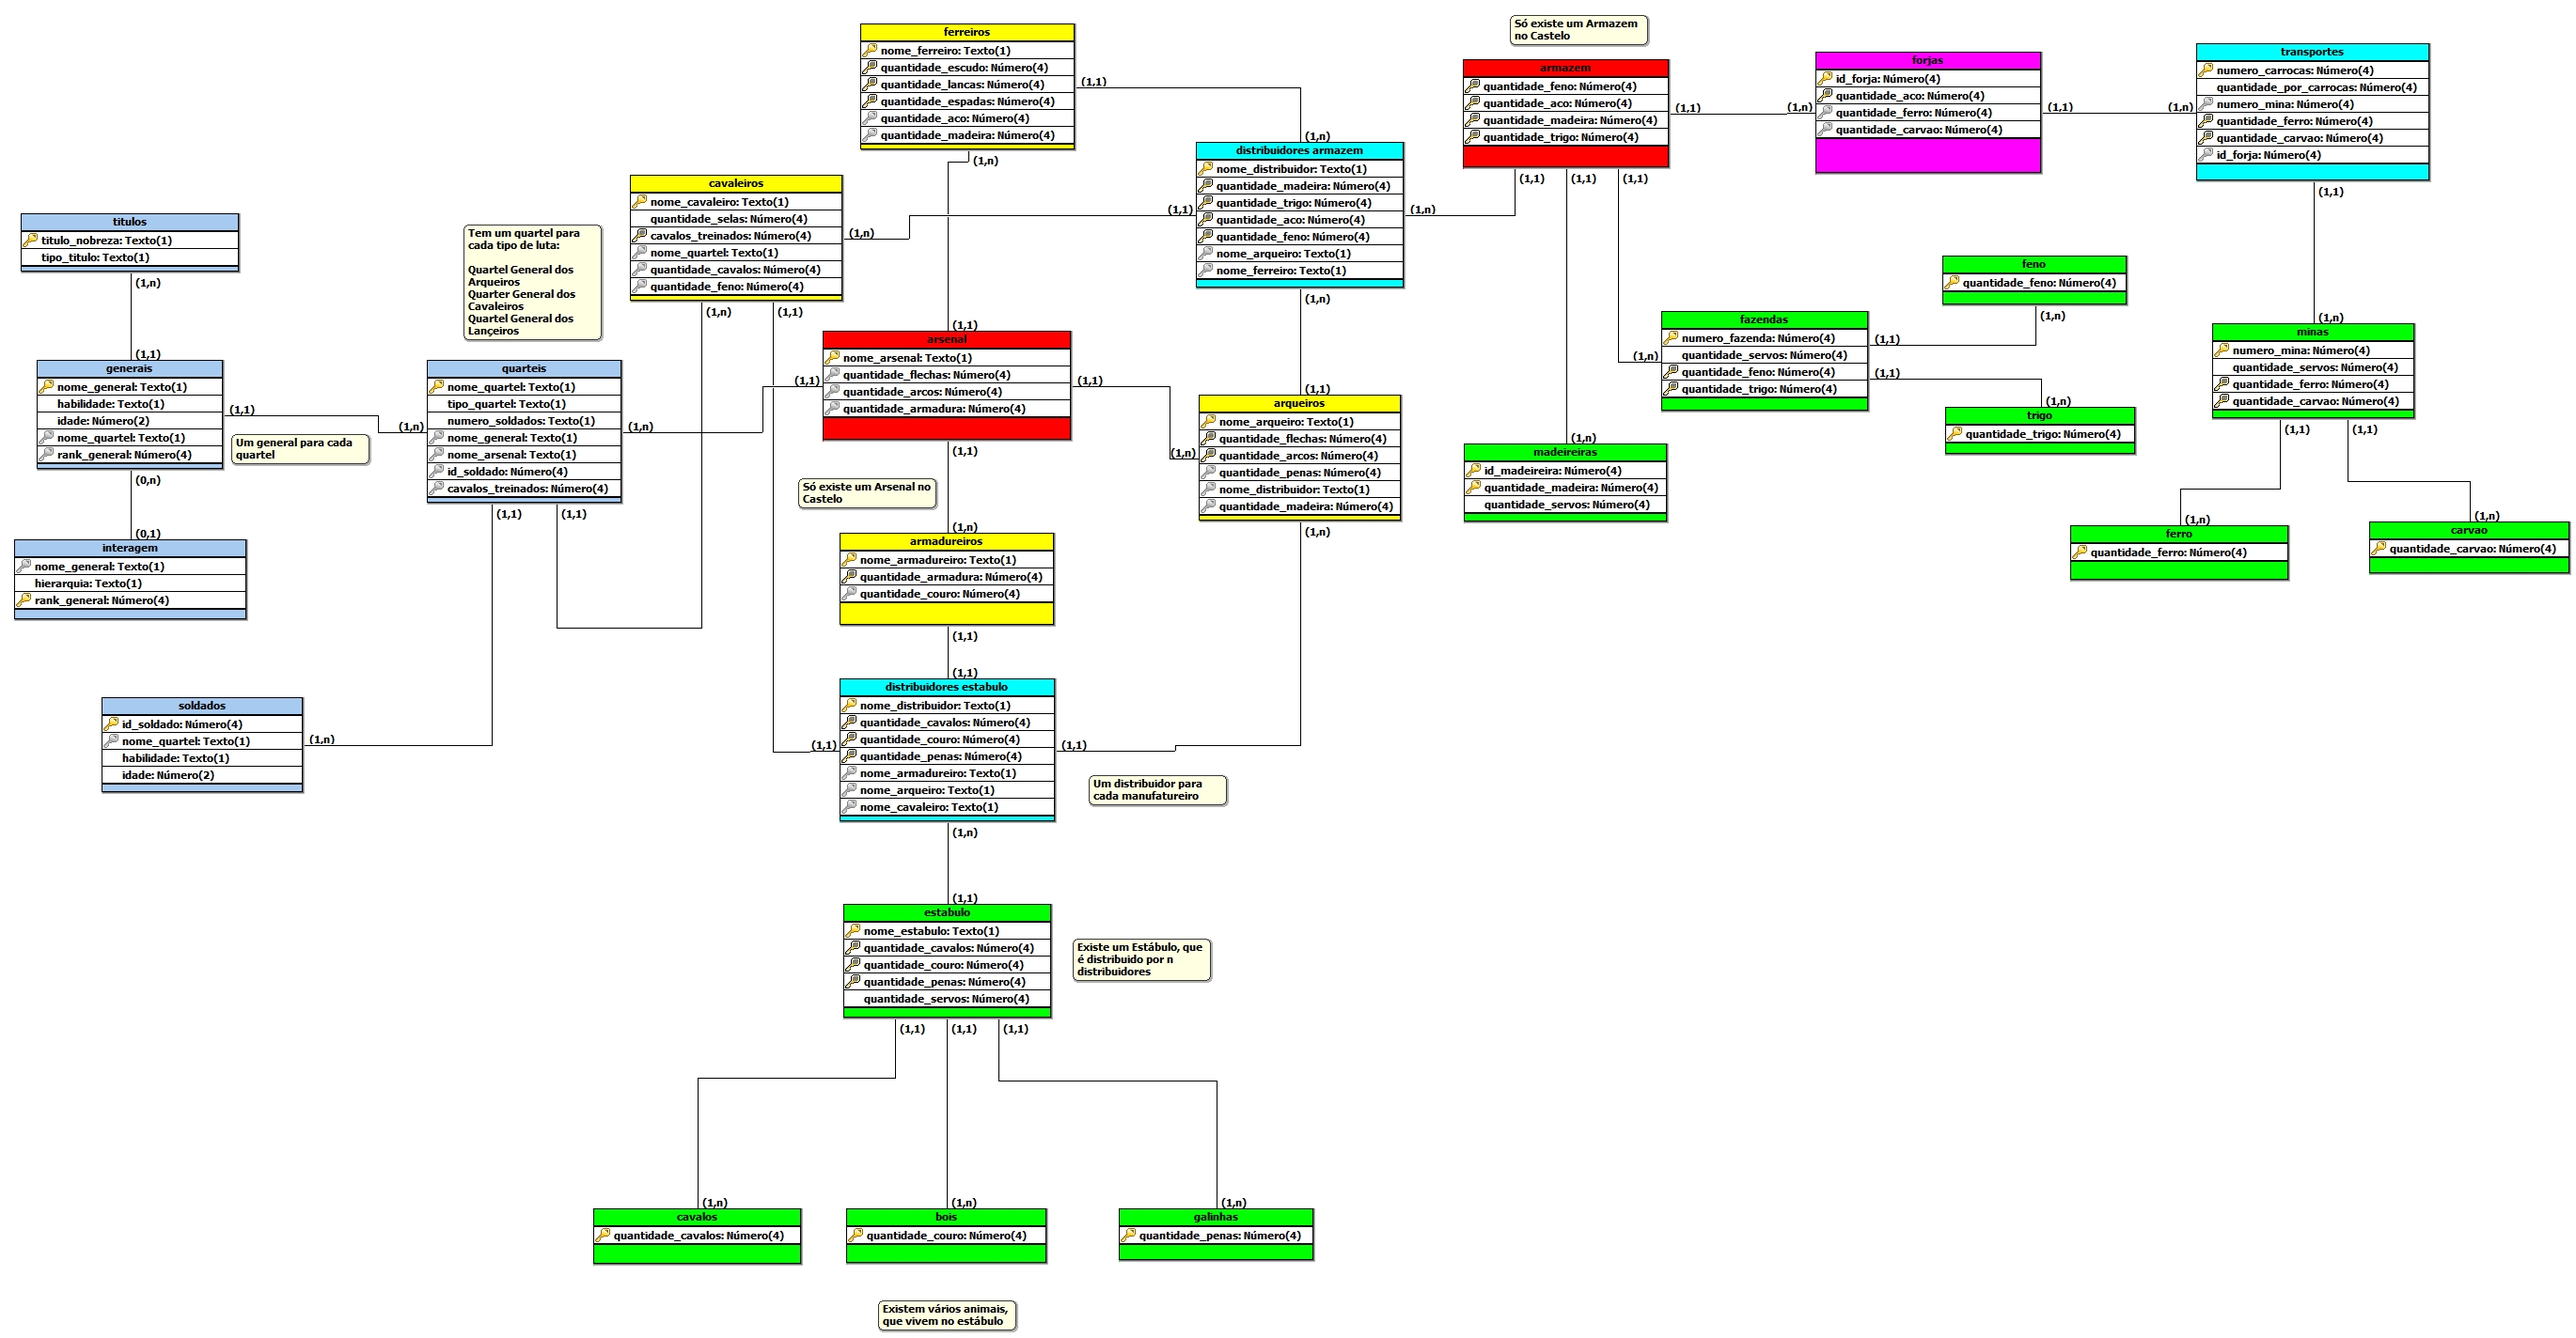
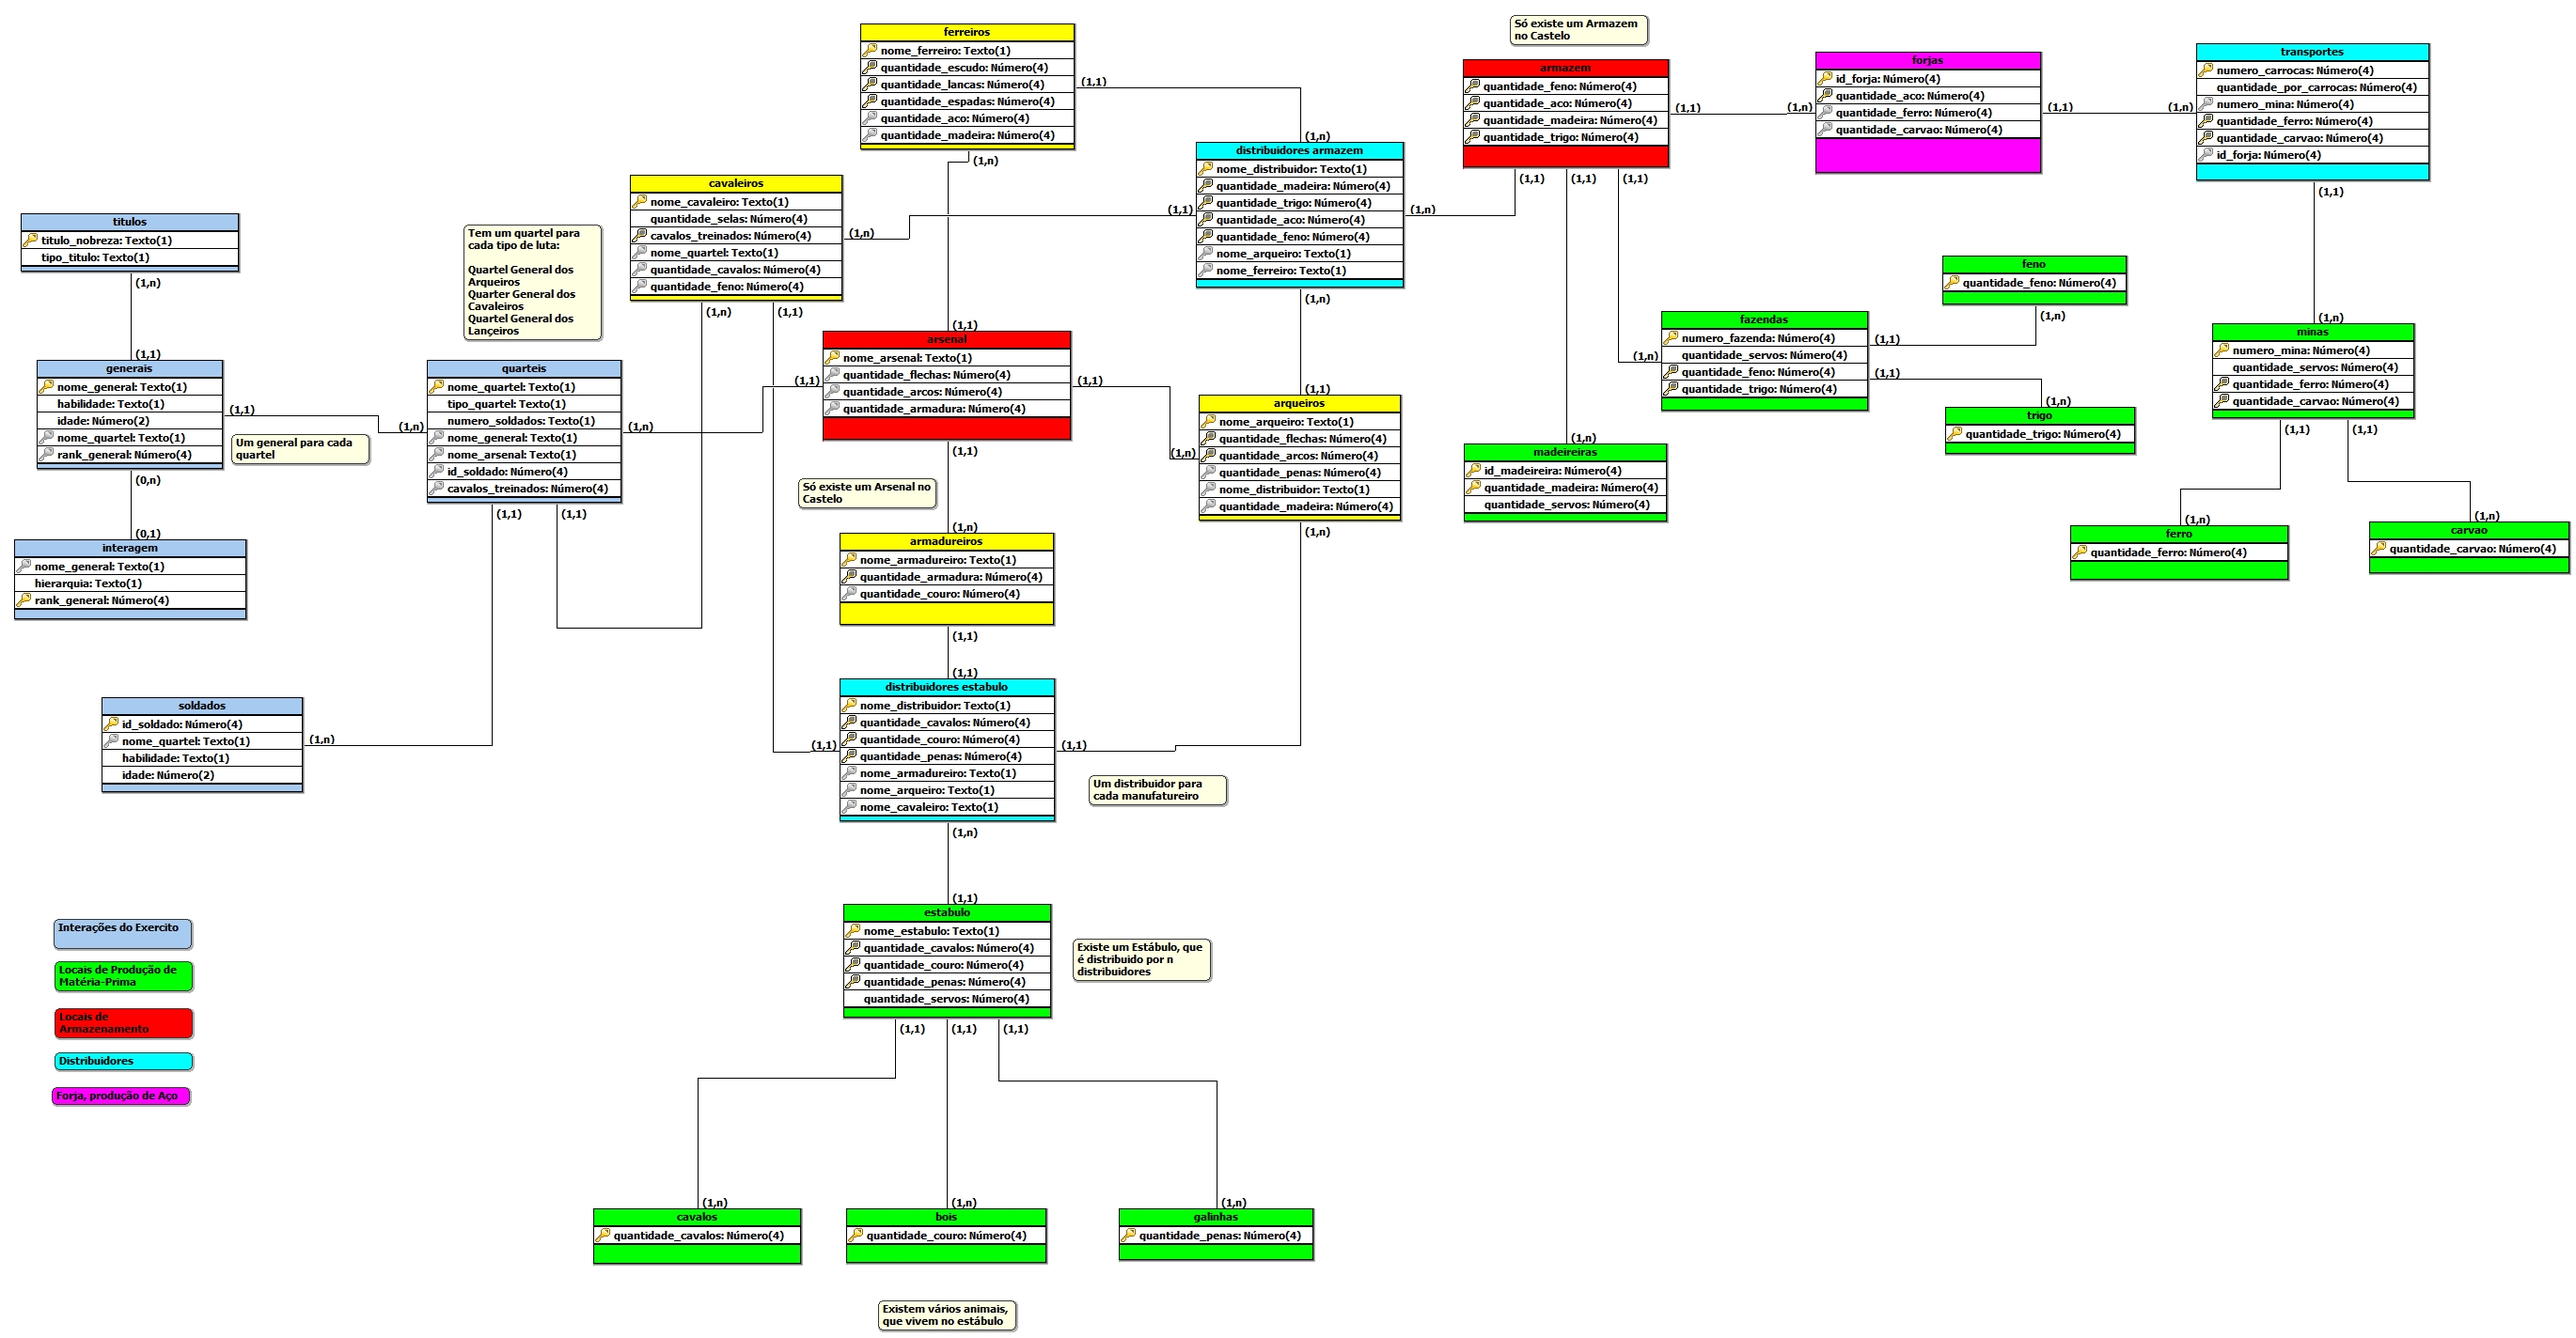
update logic model pic

Changed region(s): [[0.0, 0.6798, 0.0931, 0.8343]]

diff --git a/README.md b/README.md
@@ -31,5 +31,12 @@ Tabelas do Modelos Conceitual no Astah|:construction:||
 
 Informação|No trabalho|Concluido|
 |---|---|---|
+Construção do Modelo Lógico|:white_check_mark:|
+
+## Programa SQL
+
+Informação|No trabalho|Concluido|
+|---|---|---|
+
 
 
